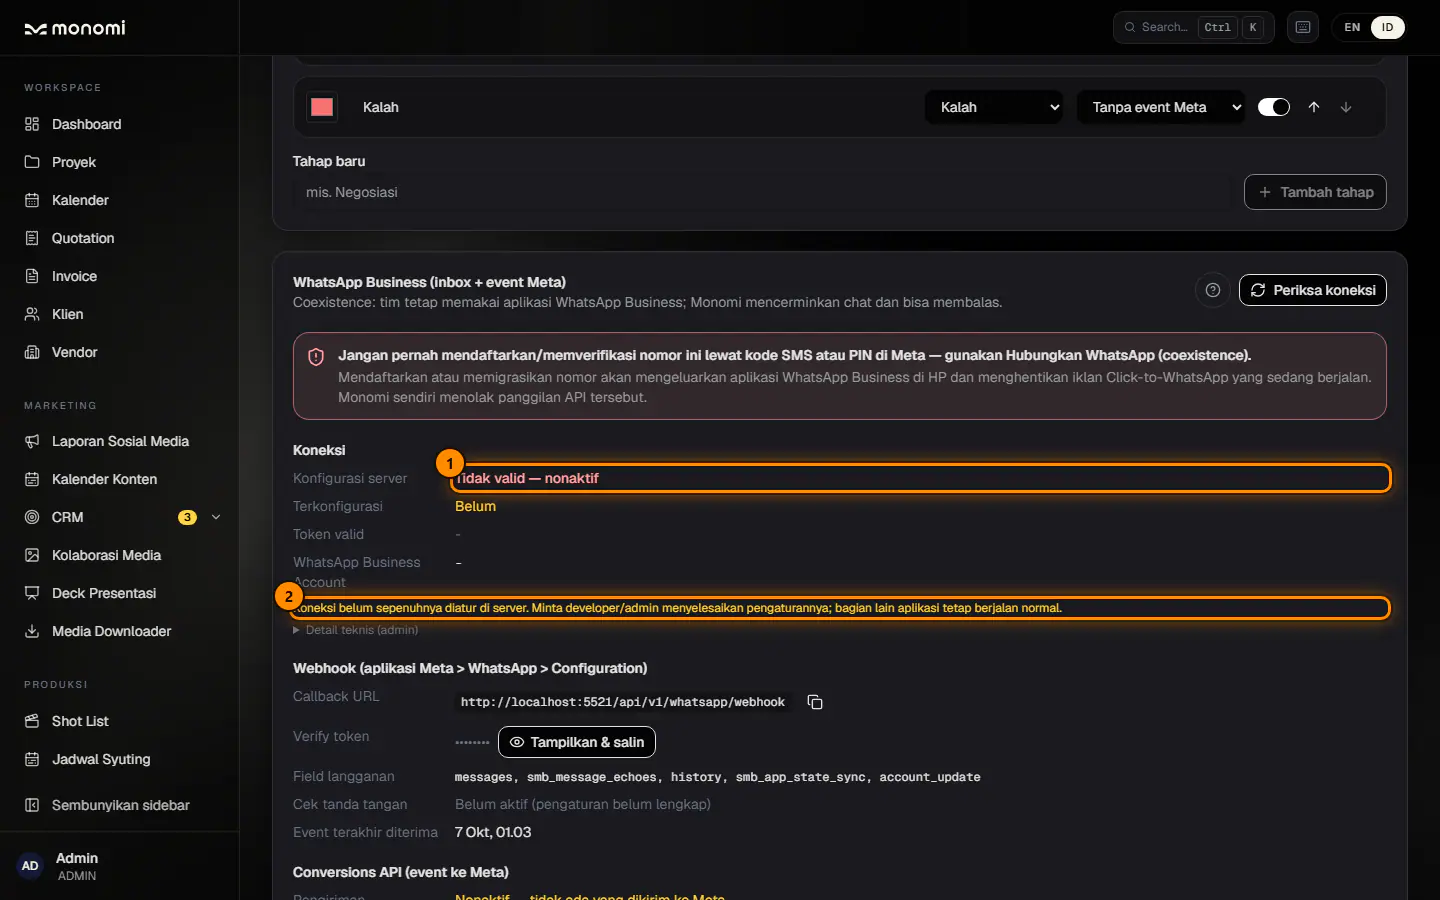
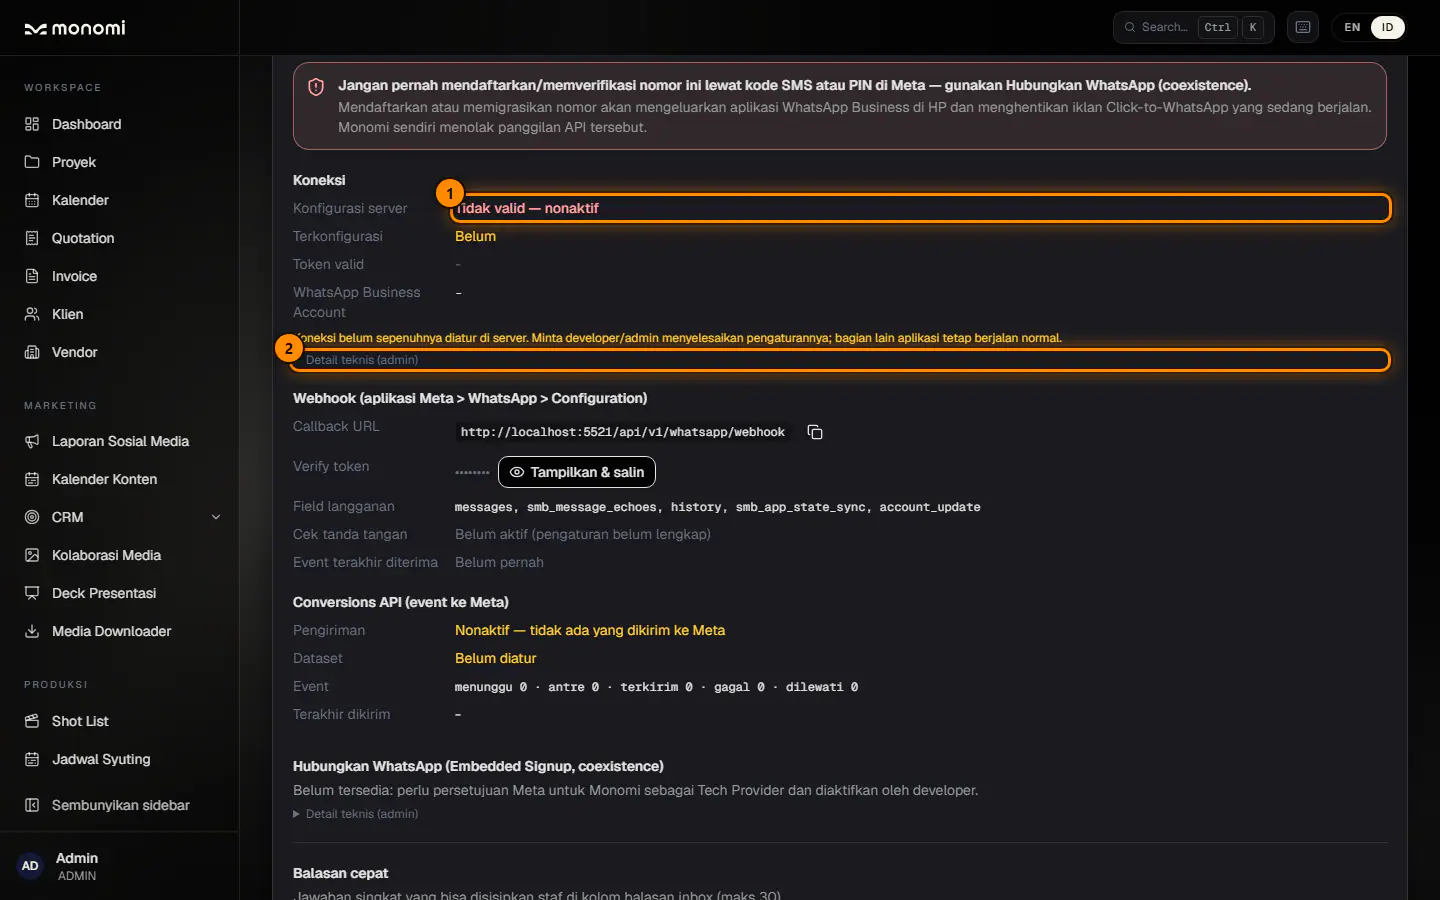
fix(crm,social-publishing,guides): verifier findings (CI tsc, spoofable activity keys, env names for non-admins, guide accuracy)
- Backend spec used a nonexistent GraphErrorKind ("other"): tsc -p tsconfig.json (CI gate) passes again.
- Activity keys: the UI whitelists the five server keys; staff/customer text starting with "@" is
  escaped with a backslash on write (escapeActivityText) and unescaped on render. Tests for spoof and truncation.
- /social-publishing/status omits the raw reason for non-admins; the calendar card shows non-admins a
  plain message, and the help link to the admin-only guide is shown to admins only.
- Setup guide: signature-check wording matches webhook.ready, "Reveal & copy" label (en); tidak-valid
  screenshot callout 2 now points at "Technical details" (recaptured).

Claude-Session: https://claude.ai/code/session_01WCLH2UVTxmQDnNdwgagFuz

Changed region(s): [[0.1875, 0.0622, 1.0, 0.9333], [0.1875, 0.9644, 0.5625, 1.0], [0.125, 0.56, 0.1562, 0.5911]]

diff --git a/frontend/src/pages/v2/crm/LeadDetailPage.tsx b/frontend/src/pages/v2/crm/LeadDetailPage.tsx
@@ -21,7 +21,7 @@ import {
 } from '@/services/crm';
 import { CrmShell, nativeSelectClass, textareaClass } from './CrmShell';
 import { useCrmAssignees, useCrmCampaigns, useCrmStages } from './crmHooks';
-import { displayPhone, idr, parseActivityBody, toNumber, useCrmLabels, waLink } from './crmUtils';
+import { displayPhone, idr, parseActivityBody, toNumber, unescapeActivityText, useCrmLabels, waLink } from './crmUtils';
 import { CodeBadge, LostDialog, MoveStageMenu, SourceBadge, StageBadge } from './LeadParts';
 import { ConvertDialog } from './ConvertDialog';
 import { LeadWhatsAppPanel } from './whatsapp/LeadWhatsAppPanel';
@@ -86,10 +86,10 @@ function ActivityRow({ a, lead }: { a: LeadActivity; lead: LeadDetail }) {
         );
       }
       break;
-    case 'NOTE': body = <>{t('crm.history.note', 'Note')}: {a.body}{who ? <span className="text-text-tertiary"> · {who}</span> : null}</>; break;
-    case 'CALL': body = <>{t('crm.history.call', 'Call')}: {a.body}{who ? <span className="text-text-tertiary"> · {who}</span> : null}</>; break;
-    case 'WHATSAPP': body = <>{parseActivityBody(a.body) ? activityText(a.body) : <>{t('crm.history.wa', 'WhatsApp message')}: {a.body}</>}{who ? <span className="text-text-tertiary"> · {who}</span> : null}</>; break;
-    case 'MEETING': body = <>{t('crm.history.meeting', 'Meeting')}: {a.body}{who ? <span className="text-text-tertiary"> · {who}</span> : null}</>; break;
+    case 'NOTE': body = <>{t('crm.history.note', 'Note')}: {unescapeActivityText(a.body ?? '')}{who ? <span className="text-text-tertiary"> · {who}</span> : null}</>; break;
+    case 'CALL': body = <>{t('crm.history.call', 'Call')}: {unescapeActivityText(a.body ?? '')}{who ? <span className="text-text-tertiary"> · {who}</span> : null}</>; break;
+    case 'WHATSAPP': body = <>{parseActivityBody(a.body) ? activityText(a.body) : <>{t('crm.history.wa', 'WhatsApp message')}: {unescapeActivityText(a.body ?? '')}</>}{who ? <span className="text-text-tertiary"> · {who}</span> : null}</>; break;
+    case 'MEETING': body = <>{t('crm.history.meeting', 'Meeting')}: {unescapeActivityText(a.body ?? '')}{who ? <span className="text-text-tertiary"> · {who}</span> : null}</>; break;
     case 'FOLLOW_UP_SET': body = <>{t('crm.history.followSet', 'Follow-up scheduled')}{a.body ? `: ${a.body}` : ''}</>; break;
     case 'FOLLOW_UP_DONE': body = <>{t('crm.history.followDone', 'Follow-up done')}{a.body ? `: ${a.body}` : ''}</>; break;
     case 'CONVERTED': body = <>{t('crm.history.converted', 'Converted')}{a.body ? `: ${activityText(a.body)}` : ''}</>; break;

diff --git a/backend/src/modules/crm/crm-leads.service.ts b/backend/src/modules/crm/crm-leads.service.ts
@@ -20,6 +20,7 @@ import {
 } from "./dto/crm.dto";
 import {
   endOfTodayWib,
+  escapeActivityText,
   minutesBetween,
   normalizePhone,
   parseQuickAdd,
@@ -312,7 +313,7 @@ export class CrmLeadsService {
         data: {
           leadId: created.id,
           type: "STAGE_CHANGE",
-          body: dto.firstMessage ?? null,
+          body: escapeActivityText(dto.firstMessage) ?? null,
           fromStageId: null,
           toStageId: stage.id,
           metaEvent,
@@ -418,7 +419,7 @@ export class CrmLeadsService {
   }
 
   async moveStage(id: string, stageId: string, actorId: string | null, note?: string, lostReason?: string) {
-    await this.flow.changeStage(id, stageId, actorId, { note, lostReason });
+    await this.flow.changeStage(id, stageId, actorId, { note: escapeActivityText(note), lostReason: escapeActivityText(lostReason) });
     return this.get(id);
   }
 
@@ -429,7 +430,7 @@ export class CrmLeadsService {
     if (!target || target.type !== "LOST") {
       throw new BadRequestException("Tahap 'Kalah' tidak ditemukan");
     }
-    await this.flow.changeStage(id, target.id, actorId, { lostReason: reason, note: reason });
+    await this.flow.changeStage(id, target.id, actorId, { lostReason: escapeActivityText(reason), note: escapeActivityText(reason) });
     // lead may already have been in the lost stage: still store the reason.
     await this.prisma.lead.update({ where: { id }, data: { lostReason: reason } });
     return this.get(id);
@@ -465,7 +466,7 @@ export class CrmLeadsService {
     const now = new Date();
     const isReply = type !== "NOTE";
     await this.prisma.$transaction([
-      this.prisma.leadActivity.create({ data: { leadId: id, type, body: body ?? null, actorId } }),
+      this.prisma.leadActivity.create({ data: { leadId: id, type, body: escapeActivityText(body) ?? null, actorId } }),
       this.prisma.lead.update({
         where: { id },
         data: {

diff --git a/frontend/src/pages/v2/crm/crmUtils.ts b/frontend/src/pages/v2/crm/crmUtils.ts
@@ -85,7 +85,7 @@ export function useCrmLabels() {
    */
   const activityText = (body: string | null | undefined): string => {
     const parsed = parseActivityBody(body);
-    if (!parsed) return body ?? '';
+    if (!parsed) return unescapeActivityText(body ?? '');
     const rest = parsed.text;
     switch (parsed.key) {
       case 'wa.in': return join(t('crm.history.waIn', 'Message received'), rest);
@@ -113,8 +113,14 @@ const join = (label: string, text: string | null) => (text ? `${label}: ${text}`
 /** "@key: text" -> { key, text } (see backend crm activity bodies); null for plain text. */
 export function parseActivityBody(body: string | null | undefined): { key: string; text: string | null } | null {
   const m = body?.match(/^@([A-Za-z]+(?:\.[A-Za-z]+)+)(?::\s?([\s\S]*))?$/);
-  return m ? { key: m[1], text: m[2] ? m[2] : null } : null;
+  // Only the keys the server writes; anything else (a customer's "@John.Doe: hi") is plain text.
+  return m && ACTIVITY_KEYS.has(m[1]) ? { key: m[1], text: m[2] ? m[2] : null } : null;
 }
+
+const ACTIVITY_KEYS = new Set(['wa.in', 'wa.monomi', 'wa.phoneApp', 'lead.converted', 'lead.quotationCreated']);
+
+/** Plain activity text: the server escapes a leading "@" typed by people as "\@" (crm.utils escapeActivityText). */
+export const unescapeActivityText = (body: string): string => (body.startsWith('\\@') ? body.slice(1) : body);
 
 /** 6281234567890 style id for wa.me links. */
 export const waDigits = (phone: string | null | undefined): string | null => {

diff --git a/backend/src/modules/crm/crm-leads.spec.ts b/backend/src/modules/crm/crm-leads.spec.ts
@@ -162,3 +162,22 @@ describe("CrmLeadsService.convert", () => {
     await expect(svc.convert("L9", { clientId: "c-int" }, "u1")).rejects.toBeInstanceOf(BadRequestException);
   });
 });
+
+describe("timeline bodies cannot be spoofed with server keys", () => {
+  const BS = String.fromCharCode(92);
+  it("escapes a first message that looks like a key (customer / quick add)", async () => {
+    const { svc, activities } = makeService();
+    await svc.create({ name: "Spoof", phone: "081234567001", firstMessage: "@lead.quotationCreated" } as any, "u1");
+    await svc.create({ name: "Trunc", phone: "081234567002", firstMessage: "@John.Doe: hi" } as any, "u1");
+    expect(activities[0].body).toBe(BS + "@lead.quotationCreated");
+    expect(activities[1].body).toBe(BS + "@John.Doe: hi");
+  });
+
+  it("escapes manually logged activities and leaves normal text alone", async () => {
+    const { svc, activities } = makeService({ leads: [{ id: "L1", stageId: "st-new", phone: "+62811" }] });
+    await svc.addActivity("L1", "NOTE", "@wa.in: fake", "u1");
+    await svc.addActivity("L1", "NOTE", "Call back at 5", "u1");
+    expect(activities[0].body).toBe(BS + "@wa.in: fake");
+    expect(activities[1].body).toBe("Call back at 5");
+  });
+});

diff --git a/frontend/src/pages/v2/crm/crmI18n.test.ts b/frontend/src/pages/v2/crm/crmI18n.test.ts
@@ -1,5 +1,5 @@
 import { describe, expect, it } from 'vitest';
-import { parseActivityBody } from './crmUtils';
+import { parseActivityBody, unescapeActivityText } from './crmUtils';
 import { failureText } from '../calendar/SocialPublishParts';
 import en from '@/i18n/locales/en.json';
 import id from '@/i18n/locales/id.json';
@@ -10,6 +10,13 @@ describe('parseActivityBody (server timeline keys)', () => {
     expect(parseActivityBody('@wa.phoneApp: a: b')).toEqual({ key: 'wa.phoneApp', text: 'a: b' });
     expect(parseActivityBody('@lead.converted: clientNew,project,quotation')).toEqual({ key: 'lead.converted', text: 'clientNew,project,quotation' });
     expect(parseActivityBody('@lead.quotationCreated')).toEqual({ key: 'lead.quotationCreated', text: null });
+  });
+
+  it('only accepts the keys the server writes (no truncation of customer text)', () => {
+    expect(parseActivityBody('@John.Doe: hi')).toBeNull();
+    expect(parseActivityBody('@wa.other: x')).toBeNull();
+    expect(unescapeActivityText('\\@lead.quotationCreated')).toBe('@lead.quotationCreated');
+    expect(unescapeActivityText('plain')).toBe('plain');
   });
 
   it('leaves legacy rows and plain notes alone', () => {

diff --git a/frontend/src/pages/v2/calendar/SocialPublishParts.tsx b/frontend/src/pages/v2/calendar/SocialPublishParts.tsx
@@ -444,7 +444,7 @@ export function SocialConnectionCard({ isAdmin }: { isAdmin: boolean }) {
               <p className="text-xs text-text-tertiary">{t('common.loading', 'Memuat…')}</p>
             ) : !status?.configured ? (
               <p className="text-xs text-text-tertiary" data-testid="not-configured">
-                {status?.state === 'invalid'
+                {status?.state === 'invalid' && isAdmin
                   ? t('socialPublish.invalidConfig', 'Konfigurasi Meta tidak valid: {{reason}}', { reason: status.reason ?? '' })
                   : t('socialPublish.notConfigured', 'Belum terhubung. Minta developer/admin menghubungkan akun Meta (Instagram dan Halaman Facebook).')}
               </p>
@@ -457,7 +457,7 @@ export function SocialConnectionCard({ isAdmin }: { isAdmin: boolean }) {
           </div>
         </div>
         <div className="flex items-center gap-2">
-        <GuideHelpLink slug="publikasi-otomatis" anchor="koneksi" />
+        {isAdmin && <GuideHelpLink slug="publikasi-otomatis" anchor="koneksi" />}
         {status?.configured && isAdmin && (
           <Button
             size="sm"

diff --git a/backend/src/modules/social-publishing/social-publishing-units.spec.ts b/backend/src/modules/social-publishing/social-publishing-units.spec.ts
@@ -574,7 +574,7 @@ describe("AutoPublishPolicy (content calendar edits)", () => {
 
 describe("publish error messages (localized by the UI via errorCode)", () => {
   it("keeps the raw Meta detail on its own line after the bilingual headline", () => {
-    const e = publishErrorFromGraph(new GraphApiError("x", "other", 400, 100, 2207009));
+    const e = publishErrorFromGraph(new GraphApiError("x", "invalid_param", 400, 100, 2207009));
     expect(e.code).toBe("MEDIA_INVALID");
     const [head, detail] = e.message.split("\n");
     expect(head).toBe("Media ditolak Meta / Media rejected by Meta");
@@ -582,7 +582,7 @@ describe("publish error messages (localized by the UI via errorCode)", () => {
   });
 
   it("uses its own code for Facebook duplicate posts and no detail line for fixed messages", () => {
-    const e = publishErrorFromGraph(new GraphApiError("dup", "other", 400, 506));
+    const e = publishErrorFromGraph(new GraphApiError("dup", "unknown", 400, 506));
     expect(e.code).toBe("DUPLICATE_POST");
     expect(e.message).toBe(MSG.duplicate);
     expect(MSG.publishLimit(5, 100)).toContain("\n5/100");

diff --git a/backend/src/modules/crm/crm.utils.spec.ts b/backend/src/modules/crm/crm.utils.spec.ts
@@ -138,3 +138,14 @@ describe("stats helpers", () => {
     expect(startOfTodayWib(now).toISOString()).toBe("2026-10-06T17:00:00.000Z");
   });
 });
+
+import { escapeActivityText } from "./crm.utils";
+describe("escapeActivityText", () => {
+  const BS = String.fromCharCode(92);
+  it("escapes only a leading @", () => {
+    expect(escapeActivityText("@wa.in: x")).toBe(BS + "@wa.in: x");
+    expect(escapeActivityText("  @lead.converted")).toBe(BS + "@lead.converted");
+    expect(escapeActivityText("mail me @home")).toBe("mail me @home");
+    expect(escapeActivityText(null)).toBeNull();
+  });
+});

diff --git a/backend/src/modules/social-publishing/social-publishing.service.ts b/backend/src/modules/social-publishing/social-publishing.service.ts
@@ -735,7 +735,7 @@ export class SocialPublishingService {
   // ===========================================================================
 
   /** Cheap, no Meta call, no secrets. */
-  status() {
+  status(includeReason = true) {
     const s = this.accounts.state;
     if (s.status === "configured") {
       return {
@@ -753,7 +753,9 @@ export class SocialPublishingService {
       state: s.status,
       ...(s.status === "not_configured"
         ? { missing: s.missing }
-        : { reason: s.reason }),
+        : includeReason
+          ? { reason: s.reason }
+          : {}),
     };
   }
 

diff --git a/backend/src/modules/crm/crm.utils.ts b/backend/src/modules/crm/crm.utils.ts
@@ -3,6 +3,14 @@
  * trivially unit-testable).
  */
 
+/**
+ * Timeline bodies starting with "@key" are server keys the UI translates. Text typed by staff or sent by a
+ * customer must never be read as one, so a leading "@" is escaped with a backslash (the UI removes it).
+ */
+export function escapeActivityText<T extends string | null | undefined>(text: T): T {
+  return (typeof text === "string" && /^\s*@/.test(text) ? "\\" + text.trimStart() : text) as T;
+}
+
 /** WIB = UTC+7, no daylight saving. */
 export const WIB_OFFSET_MS = 7 * 60 * 60 * 1000;
 

diff --git a/backend/src/modules/social-publishing/social-publishing.controller.ts b/backend/src/modules/social-publishing/social-publishing.controller.ts
@@ -41,8 +41,10 @@ export class SocialPublishingController {
   @ApiOperation({
     summary: "Auto-publish configuration status (no Meta call, no secrets)",
   })
-  status() {
-    return this.service.status();
+  status(@Request() req: any) {
+    // The raw reason names server settings: admins only.
+    const admin = req.user?.role === UserRole.SUPER_ADMIN || req.user?.role === UserRole.ADMIN;
+    return this.service.status(admin);
   }
 
   @Get("connection")
